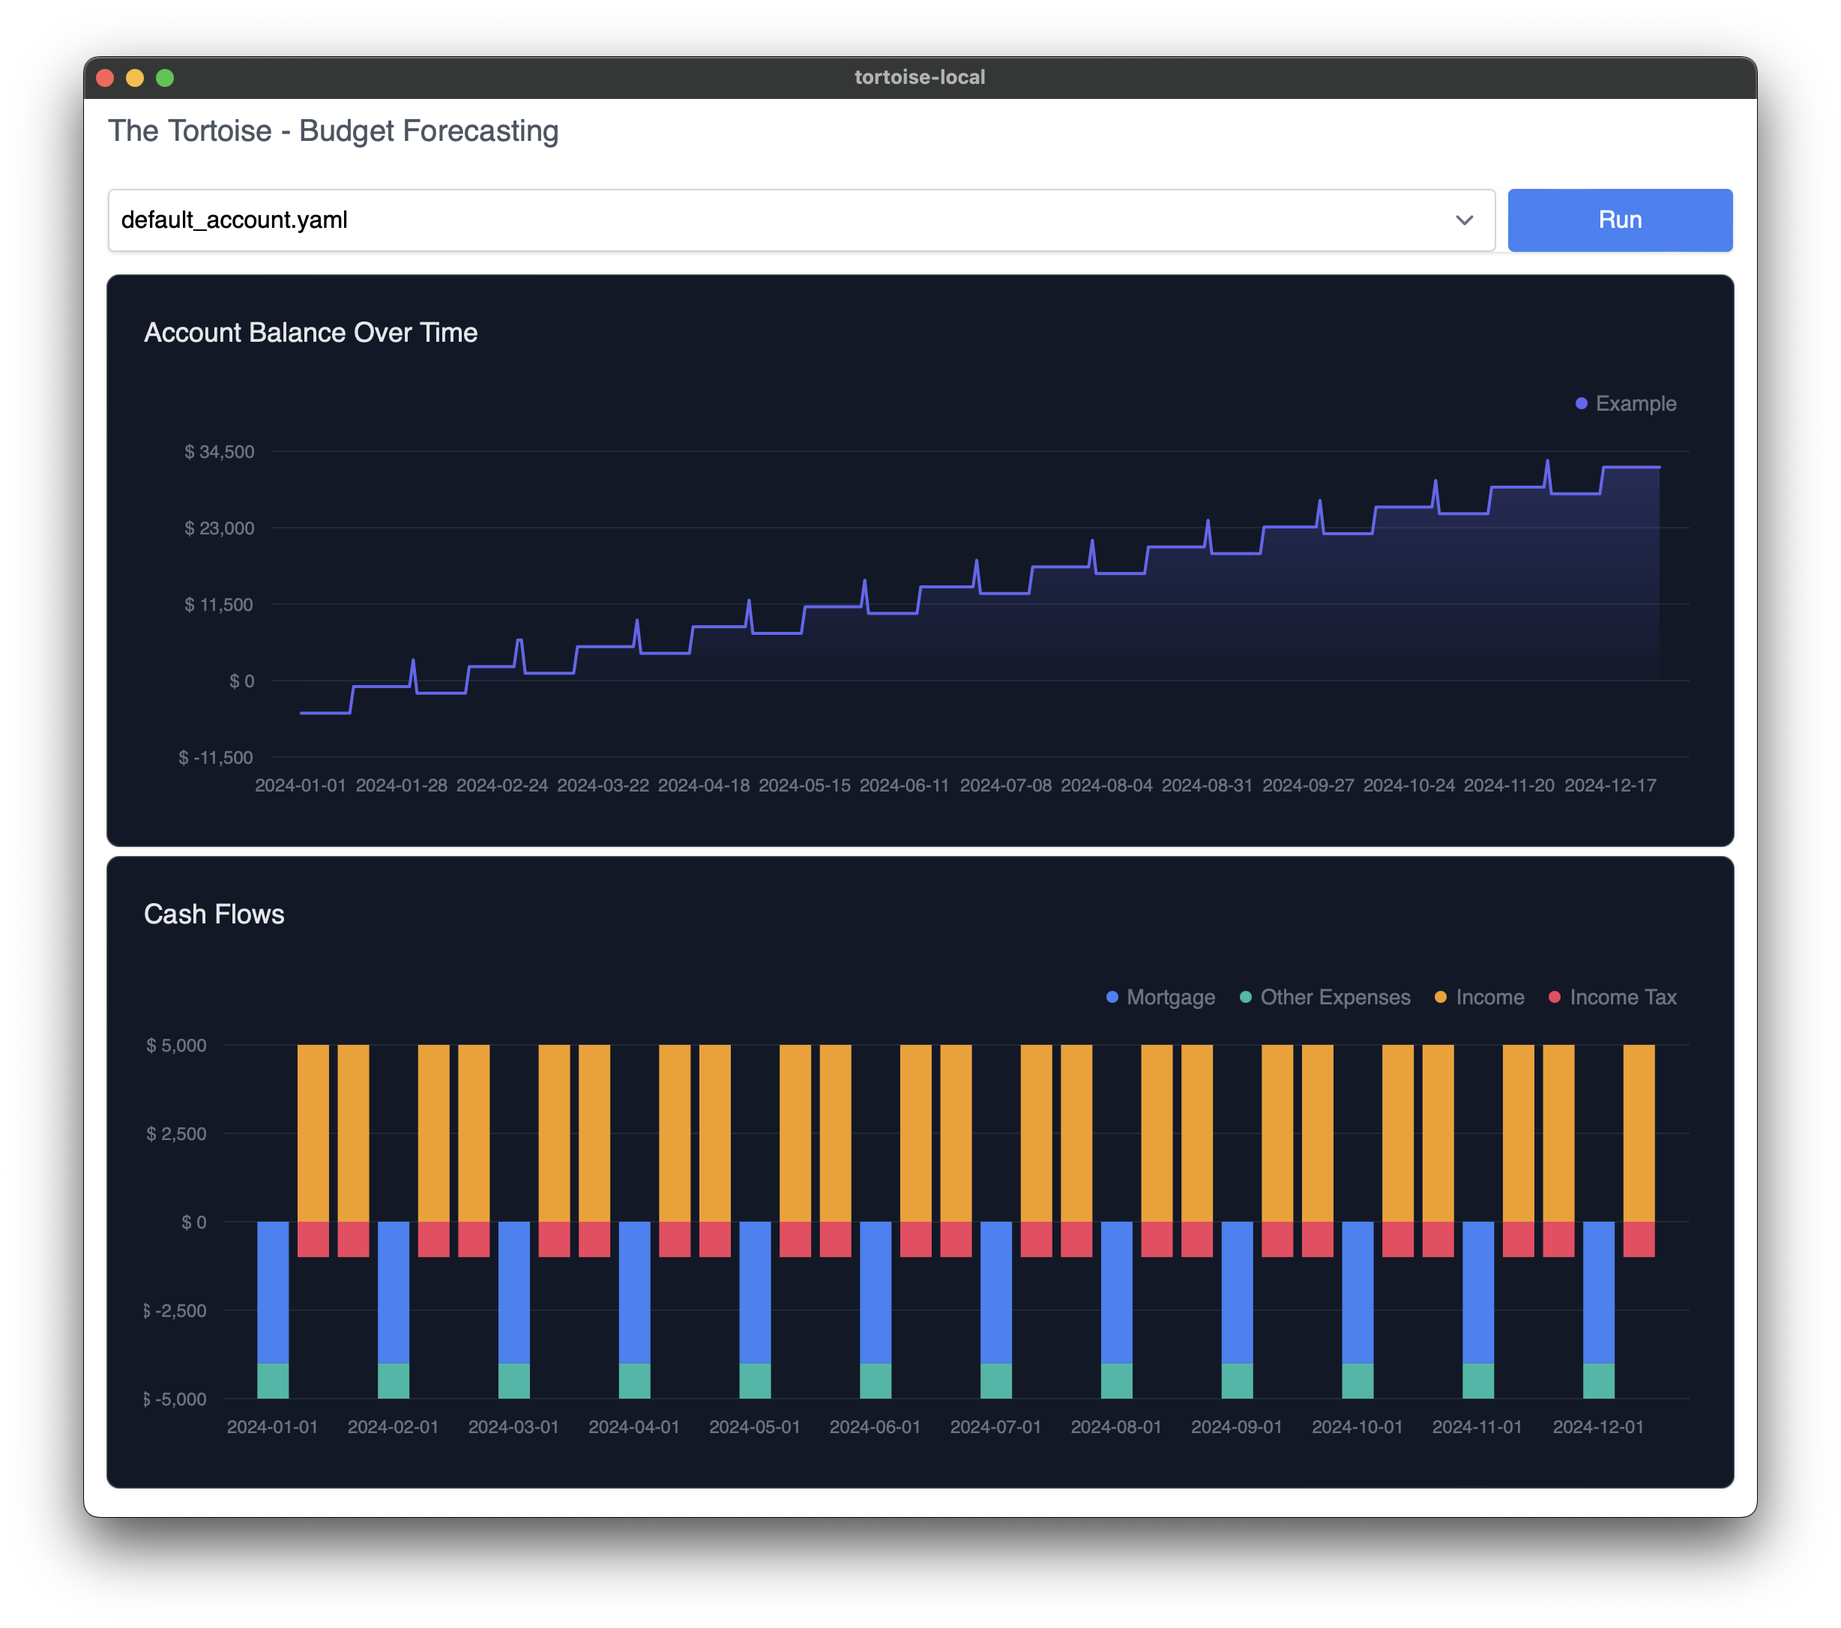
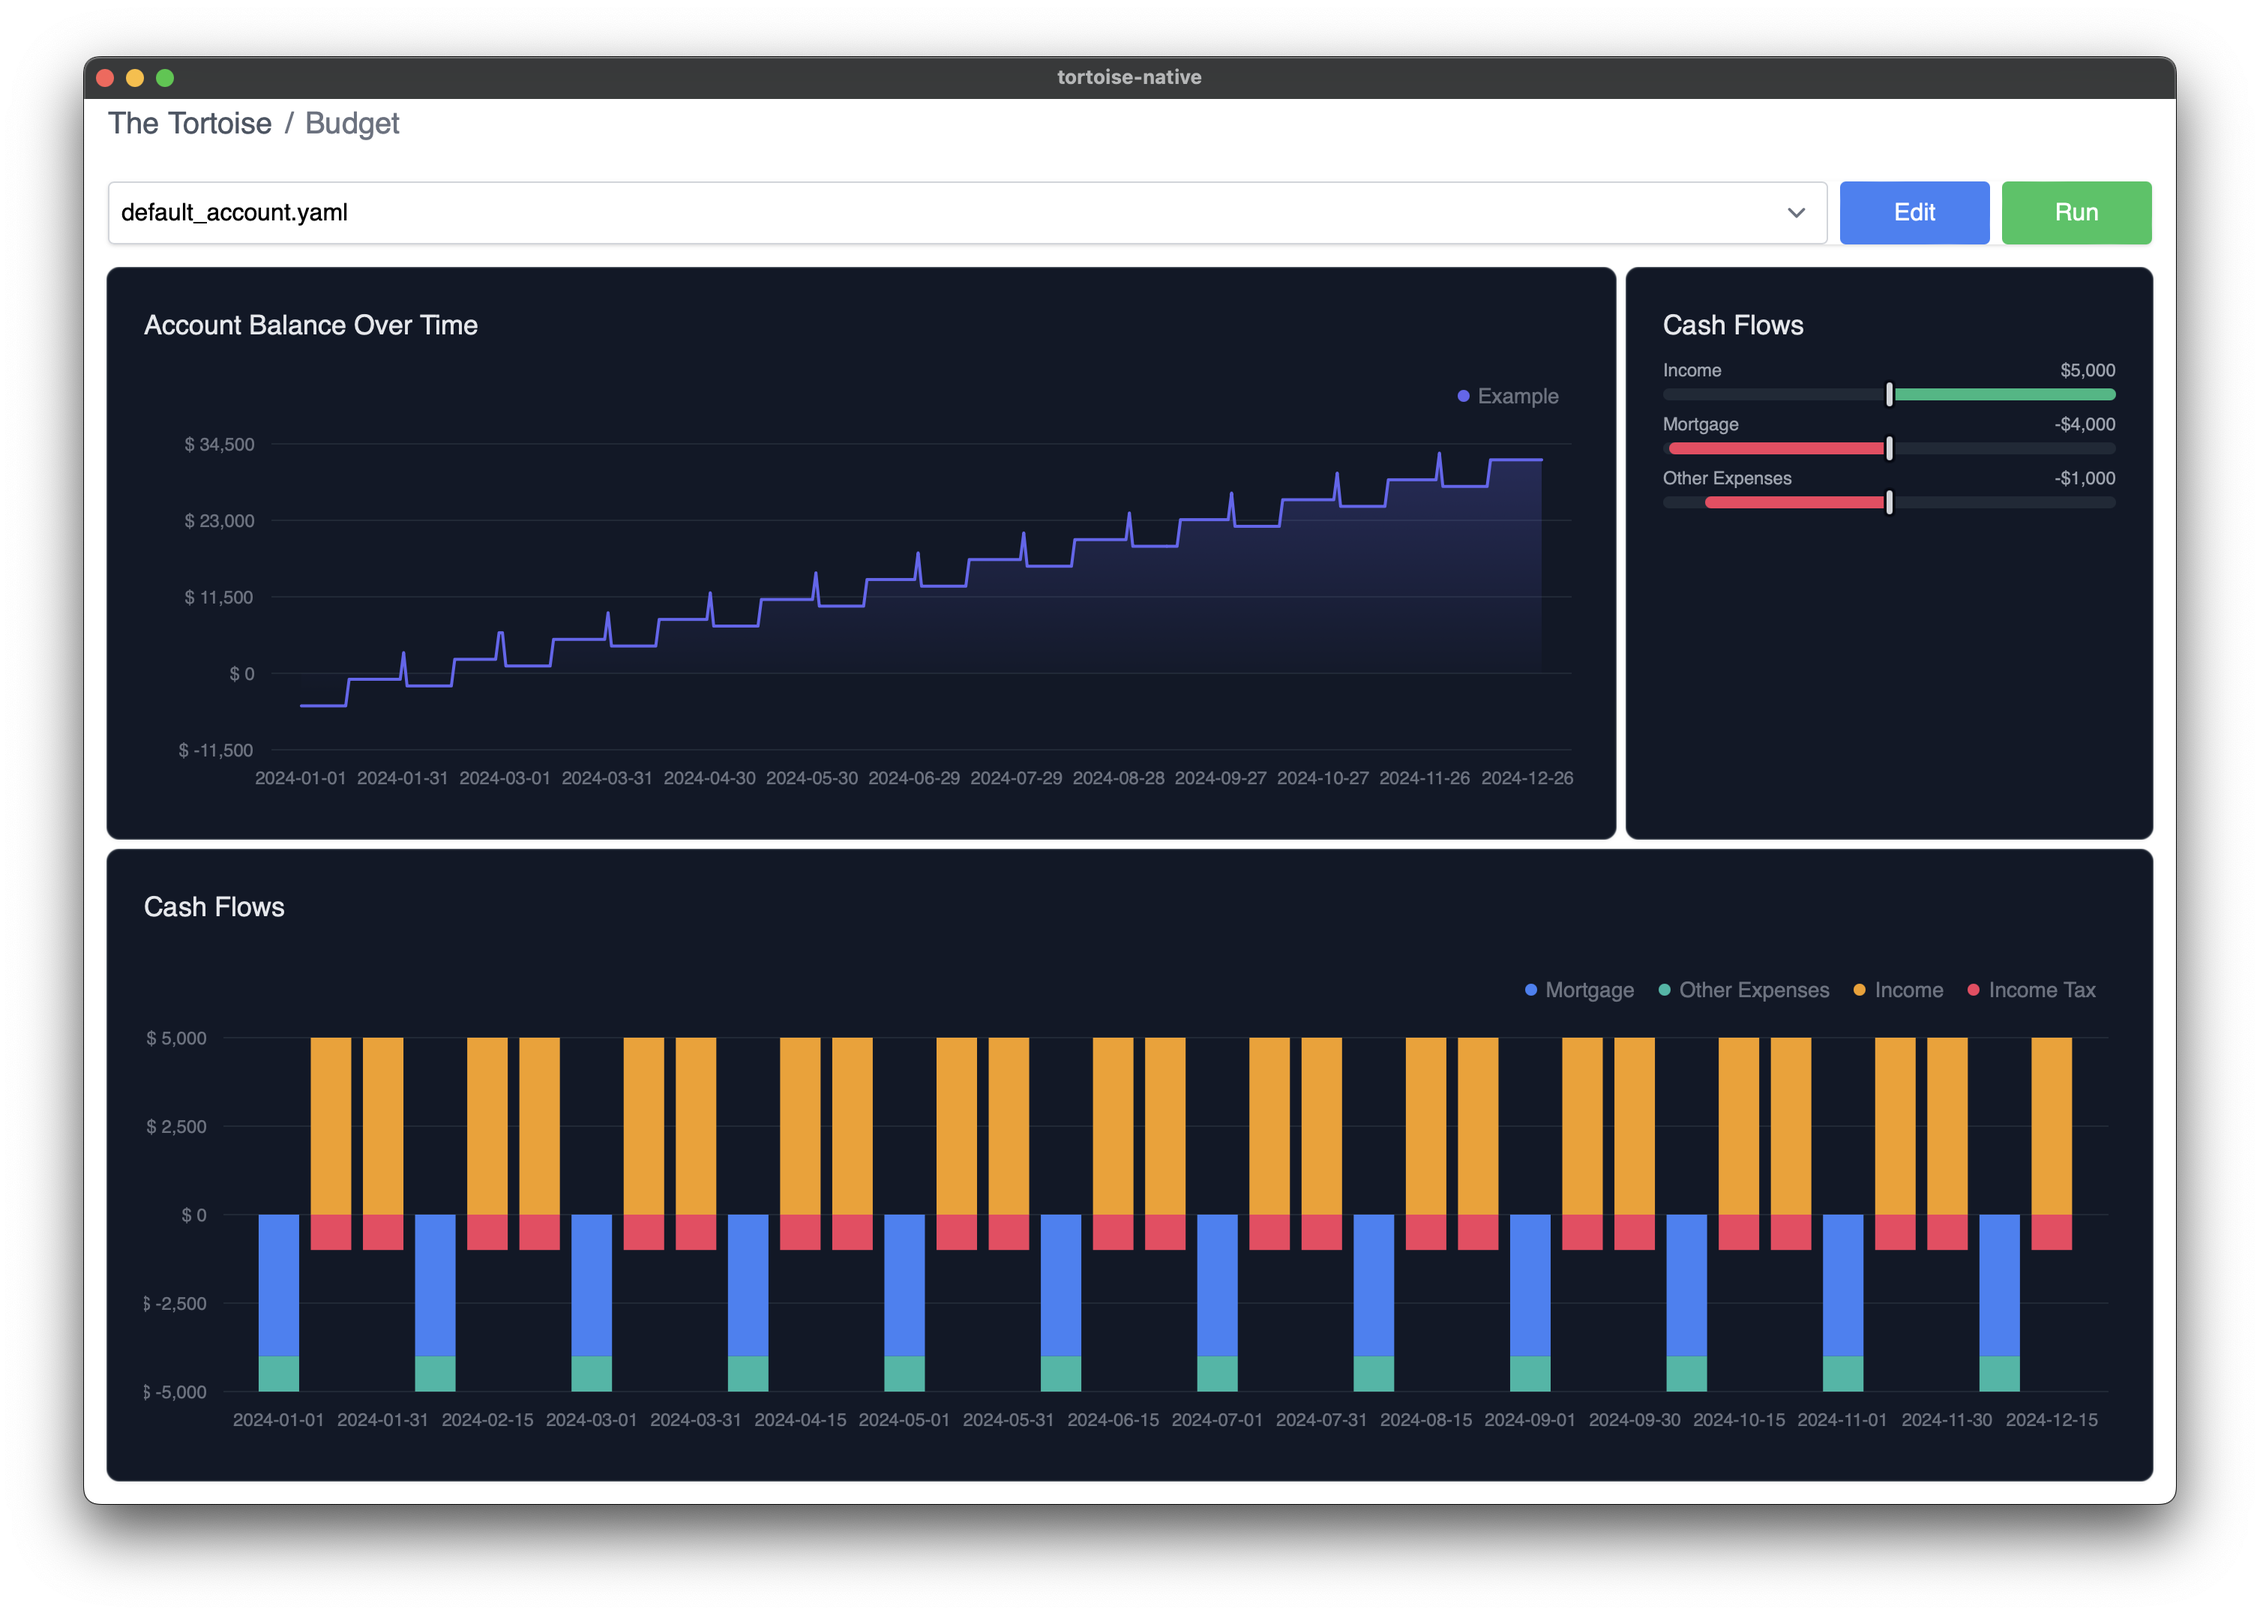
Bugfixes

diff --git a/src/budget/Main.tsx b/src/budget/Main.tsx
@@ -22,25 +22,32 @@ const Main: React.FC = () => {
         }
 
         setIsRunning(true);
-        const startTime = performance.now();
+        try {
+            const startTime = performance.now();
 
-        let x = await invoke<string>("get_results", { accountFilename: selectedScenario });
-        let j: SimulationResult = JSON.parse(x);
+            let x = await invoke<string>("get_results", { accountFilename: selectedScenario });
+            let j: SimulationResult = JSON.parse(x);
+            console.log(j)
 
-        let c = await invoke<string>("get_cash_flows_from_config", { accountFilename: selectedScenario });
-        let cf: CashFlow[] = JSON.parse(c);
+            let c = await invoke<string>("get_cash_flows_from_config", { accountFilename: selectedScenario });
+            let cf: CashFlow[] = JSON.parse(c);
+            console.log(cf)
 
-        const endTime = performance.now();
-        const executionTime = endTime - startTime;
+            const endTime = performance.now();
+            const executionTime = endTime - startTime;
 
-        // Minumum execution time of 250ms to make the UI a bit more smooth.
-        if (executionTime < 250) {
-            await new Promise((resolve) => setTimeout(resolve, 250 - executionTime));
+            // Minumum execution time of 250ms to make the UI a bit more smooth.
+            if (executionTime < 250) {
+                await new Promise((resolve) => setTimeout(resolve, 250 - executionTime));
+            }
+
+            setBudgetResults(j);
+            setCashFlows(cf);
+        } catch (e) {
+            console.error(e);
+        } finally {
+            setIsRunning(false);
         }
-
-        setBudgetResults(j);
-        setCashFlows(cf);
-        setIsRunning(false);
     }
 
     async function listAvailableScenarios() {
@@ -64,15 +71,17 @@ const Main: React.FC = () => {
                     isRunning={isRunning}
                     run={budget}
                 />
-                <div className="flex flex-col w-full gap-2">
-                    <div className="flex flex-row gap-2 flex-grow w-full">
-                        {budgetResults && <BalanceChart results={budgetResults} />}
-                        {budgetResults && <CashFlowList cashFlows={cashFlows}/>}
+                {budgetResults &&
+                    <div className="flex flex-col w-full gap-2">
+                        <div className="flex flex-row gap-2 flex-grow w-full">
+                            <BalanceChart results={budgetResults} />
+                            <CashFlowList cashFlows={cashFlows} />
+                        </div>
+                        <div className="flex flex-row gap-2 flex-grow w-full">
+                            <CashFlowsChart results={budgetResults} />
+                        </div>
                     </div>
-                    <div className="flex flex-row gap-2 flex-grow w-full">
-                        {budgetResults && <CashFlowsChart results={budgetResults} />}
-                    </div>
-                </div>
+                }
             </div>
         </div>
     );

diff --git a/src/budget/CashFlowList.tsx b/src/budget/CashFlowList.tsx
@@ -7,7 +7,7 @@ const valueFormatter = (number: number) => `${Math.sign(number) < 0 ? "-" : ""}\
 const CashFlowList: React.FC<{ cashFlows: CashFlow[] }> = ({ cashFlows }) => {
   const maxAmount = Math.max(...cashFlows.map((cashFlow: CashFlow) => cashFlow.amount));
 
-  return <Card>
+  return <Card style={{maxWidth: "350px"}}>
     <Title>Cash Flows</Title>
     <div
       className="flex flex-col gap-2 py-2"

diff --git a/src-tauri/src/api.rs b/src-tauri/src/api.rs
@@ -45,36 +45,49 @@ pub async fn list_available_scenarios() -> Result<String, String> {
     Ok(serde_json::to_string(&file_names).unwrap())
 }
 
-fn load_config(account_filename: String) -> sim::cash::Account {
+fn load_config(account_filename: String) -> Result<sim::cash::Account, serde_yaml::Error> {
     let dir = dirs::home_dir()
         .expect("Could not resolve home dir")
         .join(".tortoise");
     let account_str =
         fs::read_to_string(dir.join(account_filename.clone())).expect("Could not read file");
-    let mut account = sim::cash::Account::default();
 
     if account_filename.ends_with(".yaml") {
-        account = serde_yaml::from_str(&account_str).expect("Could not parse yaml file");
-    } else if account_filename.ends_with(".json") {
-        account = serde_json::from_str(&account_str).expect("Could not parse json file");
+        return serde_yaml::from_str(&account_str);
     } else {
         panic!("Unknown file type: {}", account_filename);
     }
-
-    account
 }
 
 #[tauri::command]
 #[allow(dead_code)]
-pub async fn get_results(account_filename: String) -> String {
+pub async fn get_results(account_filename: String) -> Result<String, String> {
     let account = load_config(account_filename);
-    let response = sim::run_simulation(account, None, false);
-    serde_json::to_string(&response).expect("Could not serialize account")
+
+    if !account.is_ok() {
+        return Err("{\"error\": \"Error loading account\"}".to_string());
+    }
+
+    let response = sim::run_simulation(account.unwrap(), None, false);
+
+    if !response.is_ok() {
+        return Err("{\"error\": \"Error running simulation\"}".to_string());
+    }
+
+    let r = serde_json::to_string(&response.unwrap()).unwrap();
+    println!("{:?}", r);
+    Ok(r.to_string())
 }
 
 #[tauri::command]
 #[allow(dead_code)]
-pub async fn get_cash_flows_from_config(account_filename: String) -> String {
+pub async fn get_cash_flows_from_config(account_filename: String) -> Result<String, String> {
     let account = load_config(account_filename);
-    serde_json::to_string(&account.cash_flows).expect("Could not serialize cash flows")
+
+    if !account.is_ok() {
+        return Err("{\"error\": \"Error loading account\"}".to_string());
+    }
+
+    let cf = serde_json::to_string(&account.unwrap().cash_flows).unwrap();
+    Ok(cf.to_string())
 }

diff --git a/src-tauri/src/sim/portfolio.rs b/src-tauri/src/sim/portfolio.rs
@@ -14,7 +14,7 @@ use serde::{Deserialize, Serialize};
 /// # Example
 ///
 /// ```
-/// use tortoise_local::sim::portfolio::Asset;
+/// use tortoise_native::sim::portfolio::Asset;
 ///
 /// let asset = Asset::new("Asset1".to_string(), 0.1, 0.05);
 /// ```
@@ -43,7 +43,7 @@ impl Asset {
 /// # Example
 ///
 /// ```
-/// use tortoise_local::sim::portfolio::{Asset, Portfolio};
+/// use tortoise_native::sim::portfolio::{Asset, Portfolio};
 ///
 /// let assets = vec![
 ///     Asset::new("Asset1".to_string(), 0.1, 0.05),

diff --git a/src-tauri/src/sim/mod.rs b/src-tauri/src/sim/mod.rs
@@ -43,7 +43,7 @@ pub fn run_simulation(
     mut account: cash::Account,
     portfolio: Option<portfolio::Portfolio>,
     print_results: bool,
-) -> SimulationResult {
+) -> Result<SimulationResult, String> {
     let rebalance_frequency = Frequency::MonthStart;
 
     // read config from file account.yaml
@@ -94,7 +94,7 @@ pub fn run_simulation(
     if print_results {
         println!("--- End of Simulation ---");
     }
-    results
+    Ok(results)
 }
 
 // #[test]
